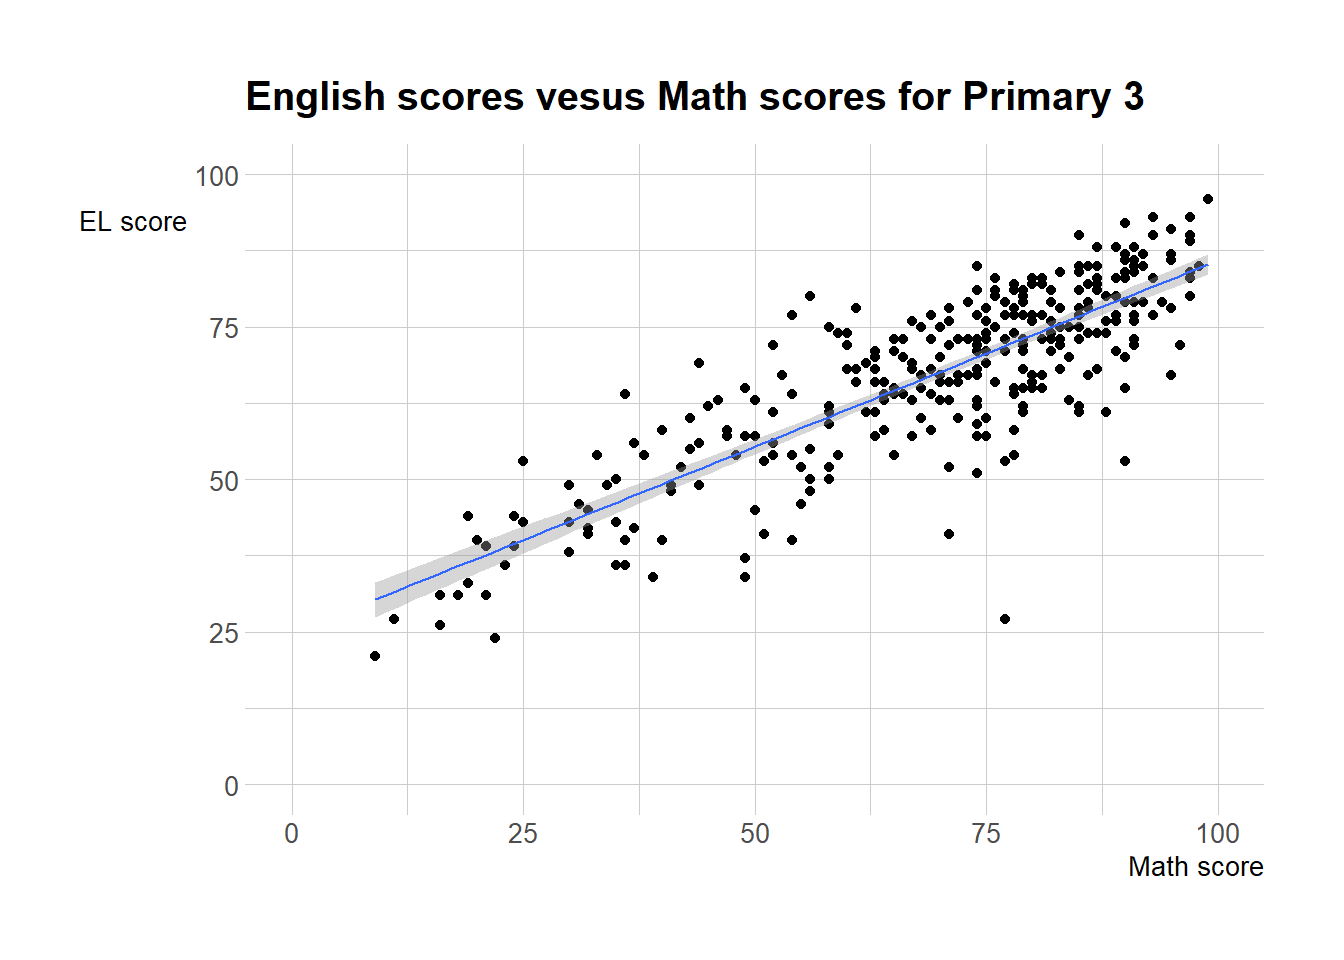
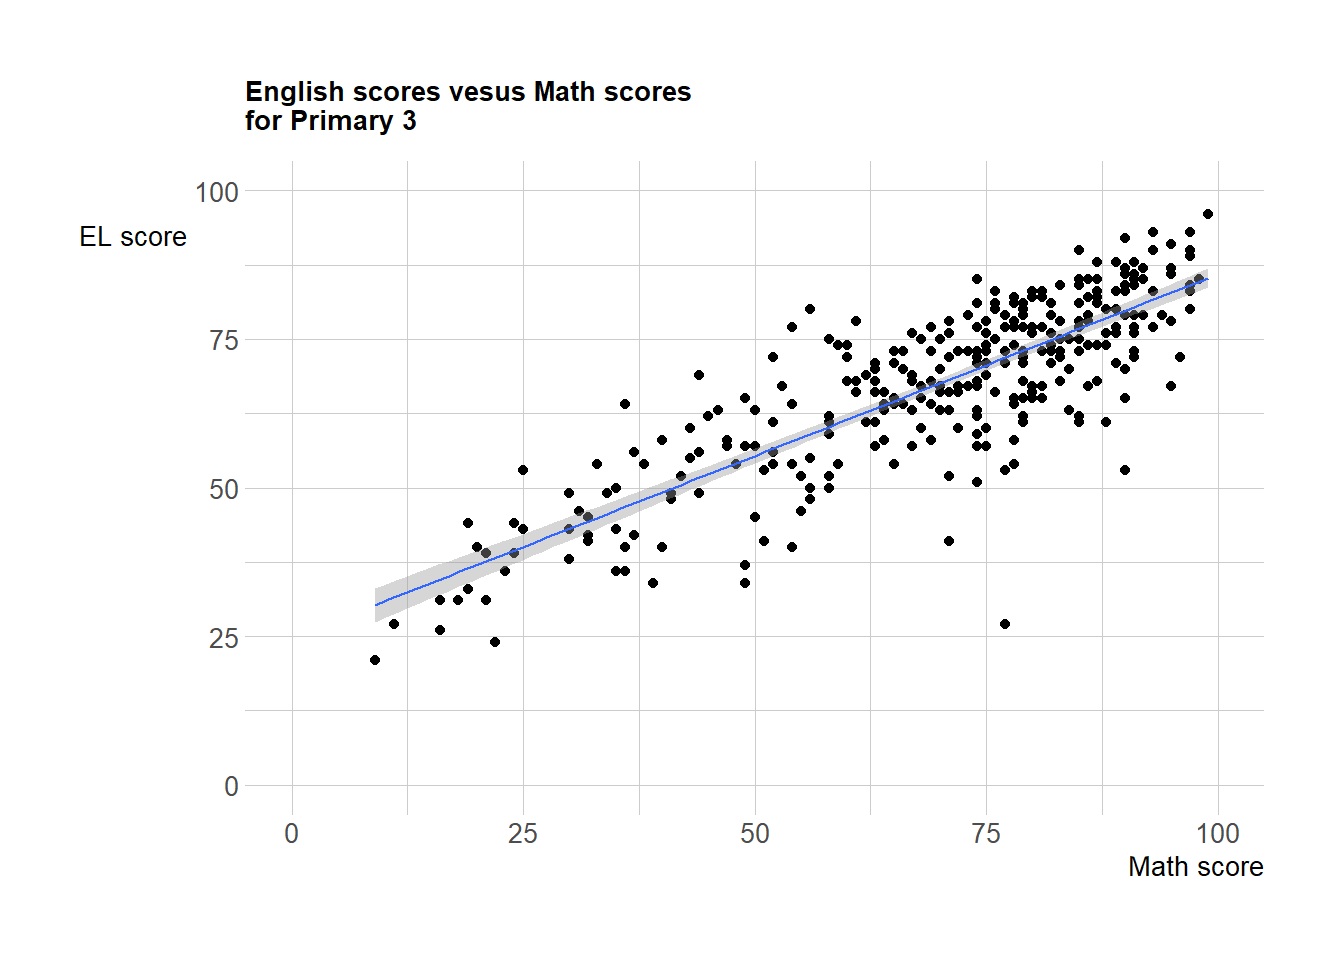
almost there

diff --git a/_site/Hands-on_Ex/Hands-on_Ex02/Hands-on_Ex02.html b/_site/Hands-on_Ex/Hands-on_Ex02/Hands-on_Ex02.html
@@ -228,7 +228,10 @@ code span.wa { color: #60a0b0; font-weight: bold; font-style: italic; } /* Warni
   <li><a href="#combining-two-ggplot2-graphs" id="toc-combining-two-ggplot2-graphs" class="nav-link" data-scroll-target="#combining-two-ggplot2-graphs">2.5.2 Combining two ggplot2 graphs</a></li>
   <li><a href="#combining-three-ggplot2-graphs" id="toc-combining-three-ggplot2-graphs" class="nav-link" data-scroll-target="#combining-three-ggplot2-graphs">2.5.3 Combining three ggplot2 graphs</a></li>
   <li><a href="#creating-a-composite-figure-with-tag" id="toc-creating-a-composite-figure-with-tag" class="nav-link" data-scroll-target="#creating-a-composite-figure-with-tag">2.5.4 Creating a composite figure with tag</a></li>
+  <li><a href="#creating-figure-with-insert" id="toc-creating-figure-with-insert" class="nav-link" data-scroll-target="#creating-figure-with-insert">2.5.5 Creating figure with insert</a></li>
+  <li><a href="#creating-a-composite-figure-by-using-patchwork-and-ggtheme" id="toc-creating-a-composite-figure-by-using-patchwork-and-ggtheme" class="nav-link" data-scroll-target="#creating-a-composite-figure-by-using-patchwork-and-ggtheme">2.5.6 Creating a composite figure by using patchwork and ggtheme</a></li>
   </ul></li>
+  <li><a href="#reference" id="toc-reference" class="nav-link" data-scroll-target="#reference">2.6 Reference</a></li>
   </ul></li>
   </ul>
 </nav>
@@ -588,8 +591,8 @@ What can we learn from the code chunk above?
 <span id="cb11-10"><a href="#cb11-10" aria-hidden="true" tabindex="-1"></a> <span class="fu">labs</span>(<span class="at">y=</span> <span class="st">'EL score'</span>, <span class="at">x=</span> <span class="st">'Math score'</span>) <span class="sc">+</span></span>
 <span id="cb11-11"><a href="#cb11-11" aria-hidden="true" tabindex="-1"></a> <span class="fu">theme</span>(<span class="at">axis.title.y=</span><span class="fu">element_text</span>(<span class="at">angle =</span> <span class="dv">0</span>,</span>
 <span id="cb11-12"><a href="#cb11-12" aria-hidden="true" tabindex="-1"></a>                                  <span class="at">vjust=</span><span class="fl">0.9</span>),</span>
-<span id="cb11-13"><a href="#cb11-13" aria-hidden="true" tabindex="-1"></a>       <span class="at">plot.title=</span><span class="fu">element_text</span>(<span class="at">size =</span><span class="dv">15</span>)) <span class="sc">+</span></span>
-<span id="cb11-14"><a href="#cb11-14" aria-hidden="true" tabindex="-1"></a>  <span class="fu">ggtitle</span>(<span class="st">'English scores vesus Math scores for Primary 3'</span>)</span></code><button title="Copy to Clipboard" class="code-copy-button"><i class="bi"></i></button></pre></div>
+<span id="cb11-13"><a href="#cb11-13" aria-hidden="true" tabindex="-1"></a>       <span class="at">plot.title=</span><span class="fu">element_text</span>(<span class="at">size =</span><span class="dv">10</span>)) <span class="sc">+</span></span>
+<span id="cb11-14"><a href="#cb11-14" aria-hidden="true" tabindex="-1"></a>  <span class="fu">ggtitle</span>(<span class="st">'English scores vesus Math scores </span><span class="sc">\n</span><span class="st">for Primary 3'</span>)</span></code><button title="Copy to Clipboard" class="code-copy-button"><i class="bi"></i></button></pre></div>
 </div>
 </div>
 </div>
@@ -619,7 +622,7 @@ What can we learn from the code chunk above?
 </div>
 <div id="tabset-10-2" class="tab-pane" role="tabpanel" aria-labelledby="tabset-10-2-tab">
 <div class="cell">
-
+<div class="sourceCode cell-code" id="cb12"><pre class="sourceCode r code-with-copy"><code class="sourceCode r"><span id="cb12-1"><a href="#cb12-1" aria-hidden="true" tabindex="-1"></a>p1 <span class="sc">+</span> p2</span></code><button title="Copy to Clipboard" class="code-copy-button"><i class="bi"></i></button></pre></div>
 </div>
 </div>
 </div>
@@ -638,12 +641,36 @@ What can we learn from the code chunk above?
 <div class="tab-content">
 <div id="tabset-11-1" class="tab-pane active" role="tabpanel" aria-labelledby="tabset-11-1-tab">
 <div class="cell">
-
+<div class="cell-output-display">
+<p><img src="Hands-on_Ex02_files/figure-html/unnamed-chunk-23-1.png" class="img-fluid" width="672"></p>
+</div>
 </div>
 </div>
 <div id="tabset-11-2" class="tab-pane" role="tabpanel" aria-labelledby="tabset-11-2-tab">
 <div class="cell">
-
+<div class="sourceCode cell-code" id="cb13"><pre class="sourceCode r code-with-copy"><code class="sourceCode r"><span id="cb13-1"><a href="#cb13-1" aria-hidden="true" tabindex="-1"></a>(p1 <span class="sc">/</span> p2) <span class="sc">|</span> p3</span></code><button title="Copy to Clipboard" class="code-copy-button"><i class="bi"></i></button></pre></div>
+</div>
+</div>
+</div>
+</div>
+<p>Other interesting plot layouts</p>
+<div class="panel-tabset">
+<ul class="nav nav-tabs" role="tablist"><li class="nav-item" role="presentation"><a class="nav-link active" id="tabset-12-1-tab" data-bs-toggle="tab" data-bs-target="#tabset-12-1" role="tab" aria-controls="tabset-12-1" aria-selected="true">The plot</a></li><li class="nav-item" role="presentation"><a class="nav-link" id="tabset-12-2-tab" data-bs-toggle="tab" data-bs-target="#tabset-12-2" role="tab" aria-controls="tabset-12-2" aria-selected="false">The code</a></li></ul>
+<div class="tab-content">
+<div id="tabset-12-1" class="tab-pane active" role="tabpanel" aria-labelledby="tabset-12-1-tab">
+<div class="cell">
+<div class="cell-output-display">
+<p><img src="Hands-on_Ex02_files/figure-html/unnamed-chunk-25-1.png" class="img-fluid" width="672"></p>
+</div>
+</div>
+</div>
+<div id="tabset-12-2" class="tab-pane" role="tabpanel" aria-labelledby="tabset-12-2-tab">
+<div class="cell">
+<div class="sourceCode cell-code" id="cb14"><pre class="sourceCode r code-with-copy"><code class="sourceCode r"><span id="cb14-1"><a href="#cb14-1" aria-hidden="true" tabindex="-1"></a>((p1 <span class="sc">/</span> p2) <span class="sc">|</span> p3) <span class="sc">+</span> grid<span class="sc">::</span> <span class="fu">textGrob</span>(<span class="st">'I can place </span><span class="sc">\n</span><span class="st">some text here.'</span>,</span>
+<span id="cb14-2"><a href="#cb14-2" aria-hidden="true" tabindex="-1"></a>                                   <span class="at">hjust=</span><span class="dv">0</span>, </span>
+<span id="cb14-3"><a href="#cb14-3" aria-hidden="true" tabindex="-1"></a>                                   <span class="at">x=</span><span class="sc">-</span><span class="dv">0</span>, </span>
+<span id="cb14-4"><a href="#cb14-4" aria-hidden="true" tabindex="-1"></a>                                   <span class="at">gp=</span>grid<span class="sc">::</span><span class="fu">gpar</span>(<span class="at">font=</span><span class="dv">3</span>, </span>
+<span id="cb14-5"><a href="#cb14-5" aria-hidden="true" tabindex="-1"></a>                                                 <span class="at">fontsize =</span> <span class="dv">12</span>))</span></code><button title="Copy to Clipboard" class="code-copy-button"><i class="bi"></i></button></pre></div>
 </div>
 </div>
 </div>
@@ -654,23 +681,78 @@ What can we learn from the code chunk above?
 <h3 class="anchored" data-anchor-id="creating-a-composite-figure-with-tag">2.5.4 Creating a composite figure with tag</h3>
 <p>In order to identify subplots in text, <strong>patchwork</strong> also provides auto-tagging capabilities as shown in the figure below.</p>
 <div class="panel-tabset">
-<ul class="nav nav-tabs" role="tablist"><li class="nav-item" role="presentation"><a class="nav-link active" id="tabset-12-1-tab" data-bs-toggle="tab" data-bs-target="#tabset-12-1" role="tab" aria-controls="tabset-12-1" aria-selected="true">The plot</a></li><li class="nav-item" role="presentation"><a class="nav-link" id="tabset-12-2-tab" data-bs-toggle="tab" data-bs-target="#tabset-12-2" role="tab" aria-controls="tabset-12-2" aria-selected="false">The code</a></li></ul>
+<ul class="nav nav-tabs" role="tablist"><li class="nav-item" role="presentation"><a class="nav-link active" id="tabset-13-1-tab" data-bs-toggle="tab" data-bs-target="#tabset-13-1" role="tab" aria-controls="tabset-13-1" aria-selected="true">The plot</a></li><li class="nav-item" role="presentation"><a class="nav-link" id="tabset-13-2-tab" data-bs-toggle="tab" data-bs-target="#tabset-13-2" role="tab" aria-controls="tabset-13-2" aria-selected="false">The code</a></li></ul>
 <div class="tab-content">
-<div id="tabset-12-1" class="tab-pane active" role="tabpanel" aria-labelledby="tabset-12-1-tab">
+<div id="tabset-13-1" class="tab-pane active" role="tabpanel" aria-labelledby="tabset-13-1-tab">
 <div class="cell">
-
+<div class="cell-output-display">
+<p><img src="Hands-on_Ex02_files/figure-html/unnamed-chunk-27-1.png" class="img-fluid" width="672"></p>
 </div>
 </div>
-<div id="tabset-12-2" class="tab-pane" role="tabpanel" aria-labelledby="tabset-12-2-tab">
+</div>
+<div id="tabset-13-2" class="tab-pane" role="tabpanel" aria-labelledby="tabset-13-2-tab">
 <div class="cell">
-
+<div class="sourceCode cell-code" id="cb15"><pre class="sourceCode r code-with-copy"><code class="sourceCode r"><span id="cb15-1"><a href="#cb15-1" aria-hidden="true" tabindex="-1"></a>((p1 <span class="sc">/</span> p2) <span class="sc">|</span> p3) <span class="sc">+</span></span>
+<span id="cb15-2"><a href="#cb15-2" aria-hidden="true" tabindex="-1"></a>  <span class="fu">plot_annotation</span>(<span class="at">tag_levels =</span> <span class="st">'I'</span>)</span></code><button title="Copy to Clipboard" class="code-copy-button"><i class="bi"></i></button></pre></div>
 </div>
 </div>
 </div>
 </div>
-
-
 </section>
+<section id="creating-figure-with-insert" class="level3">
+<h3 class="anchored" data-anchor-id="creating-figure-with-insert">2.5.5 Creating figure with insert</h3>
+<p>Beside providing functions to place plots next to each other based on the provided layout. With <a href="https://patchwork.data-imaginist.com/reference/inset_element.html"><code>inset_element()</code></a> of <strong>patchwork</strong>, we can place one or several plots or graphic elements freely on top or below another plot.</p>
+<div class="panel-tabset">
+<ul class="nav nav-tabs" role="tablist"><li class="nav-item" role="presentation"><a class="nav-link active" id="tabset-14-1-tab" data-bs-toggle="tab" data-bs-target="#tabset-14-1" role="tab" aria-controls="tabset-14-1" aria-selected="true">The plot</a></li><li class="nav-item" role="presentation"><a class="nav-link" id="tabset-14-2-tab" data-bs-toggle="tab" data-bs-target="#tabset-14-2" role="tab" aria-controls="tabset-14-2" aria-selected="false">The code</a></li></ul>
+<div class="tab-content">
+<div id="tabset-14-1" class="tab-pane active" role="tabpanel" aria-labelledby="tabset-14-1-tab">
+<div class="cell">
+<div class="cell-output-display">
+<p><img src="Hands-on_Ex02_files/figure-html/unnamed-chunk-29-1.png" class="img-fluid" width="672"></p>
+</div>
+</div>
+</div>
+<div id="tabset-14-2" class="tab-pane" role="tabpanel" aria-labelledby="tabset-14-2-tab">
+<div class="cell">
+
+</div>
+</div>
+</div>
+</div>
+</section>
+<section id="creating-a-composite-figure-by-using-patchwork-and-ggtheme" class="level3">
+<h3 class="anchored" data-anchor-id="creating-a-composite-figure-by-using-patchwork-and-ggtheme">2.5.6 Creating a composite figure by using patchwork and ggtheme</h3>
+<p>Figure below is created by combining patchwork and theme_economist() of ggthemes package discussed earlier.</p>
+<div class="panel-tabset">
+<ul class="nav nav-tabs" role="tablist"><li class="nav-item" role="presentation"><a class="nav-link active" id="tabset-15-1-tab" data-bs-toggle="tab" data-bs-target="#tabset-15-1" role="tab" aria-controls="tabset-15-1" aria-selected="true">The plot</a></li><li class="nav-item" role="presentation"><a class="nav-link" id="tabset-15-2-tab" data-bs-toggle="tab" data-bs-target="#tabset-15-2" role="tab" aria-controls="tabset-15-2" aria-selected="false">The code</a></li></ul>
+<div class="tab-content">
+<div id="tabset-15-1" class="tab-pane active" role="tabpanel" aria-labelledby="tabset-15-1-tab">
+<div class="cell">
+
+</div>
+</div>
+<div id="tabset-15-2" class="tab-pane" role="tabpanel" aria-labelledby="tabset-15-2-tab">
+<div class="cell">
+
+</div>
+</div>
+</div>
+</div>
+</section>
+</section>
+<section id="reference" class="level2">
+<h2 class="anchored" data-anchor-id="reference">2.6 Reference</h2>
+<ul>
+<li><p><a href="https://www.littlemissdata.com/blog/patchwork">Patchwork R package goes nerd viral</a></p></li>
+<li><p><a href="https://ggrepel.slowkow.com/">ggrepel</a></p></li>
+<li><p><a href="https://ggplot2.tidyverse.org/reference/ggtheme.html">ggthemes</a></p></li>
+<li><p><a href="https://cinc.rud.is/web/packages/hrbrthemes/">hrbrthemes</a></p></li>
+<li><p><a href="https://albert-rapp.de/post/2021-10-28-extend-plot-variety/">ggplot tips: Arranging plots</a></p></li>
+<li><p><a href="https://henrywang.nl/ggplot2-theme-elements-demonstration/">ggplot2 Theme Elements Demonstration</a></p></li>
+<li><p><a href="https://isabella-b.com/blog/ggplot2-theme-elements-reference/">ggplot2 Theme Elements Reference Sheet</a></p></li>
+</ul>
+
+
 </section>
 </section>
 
